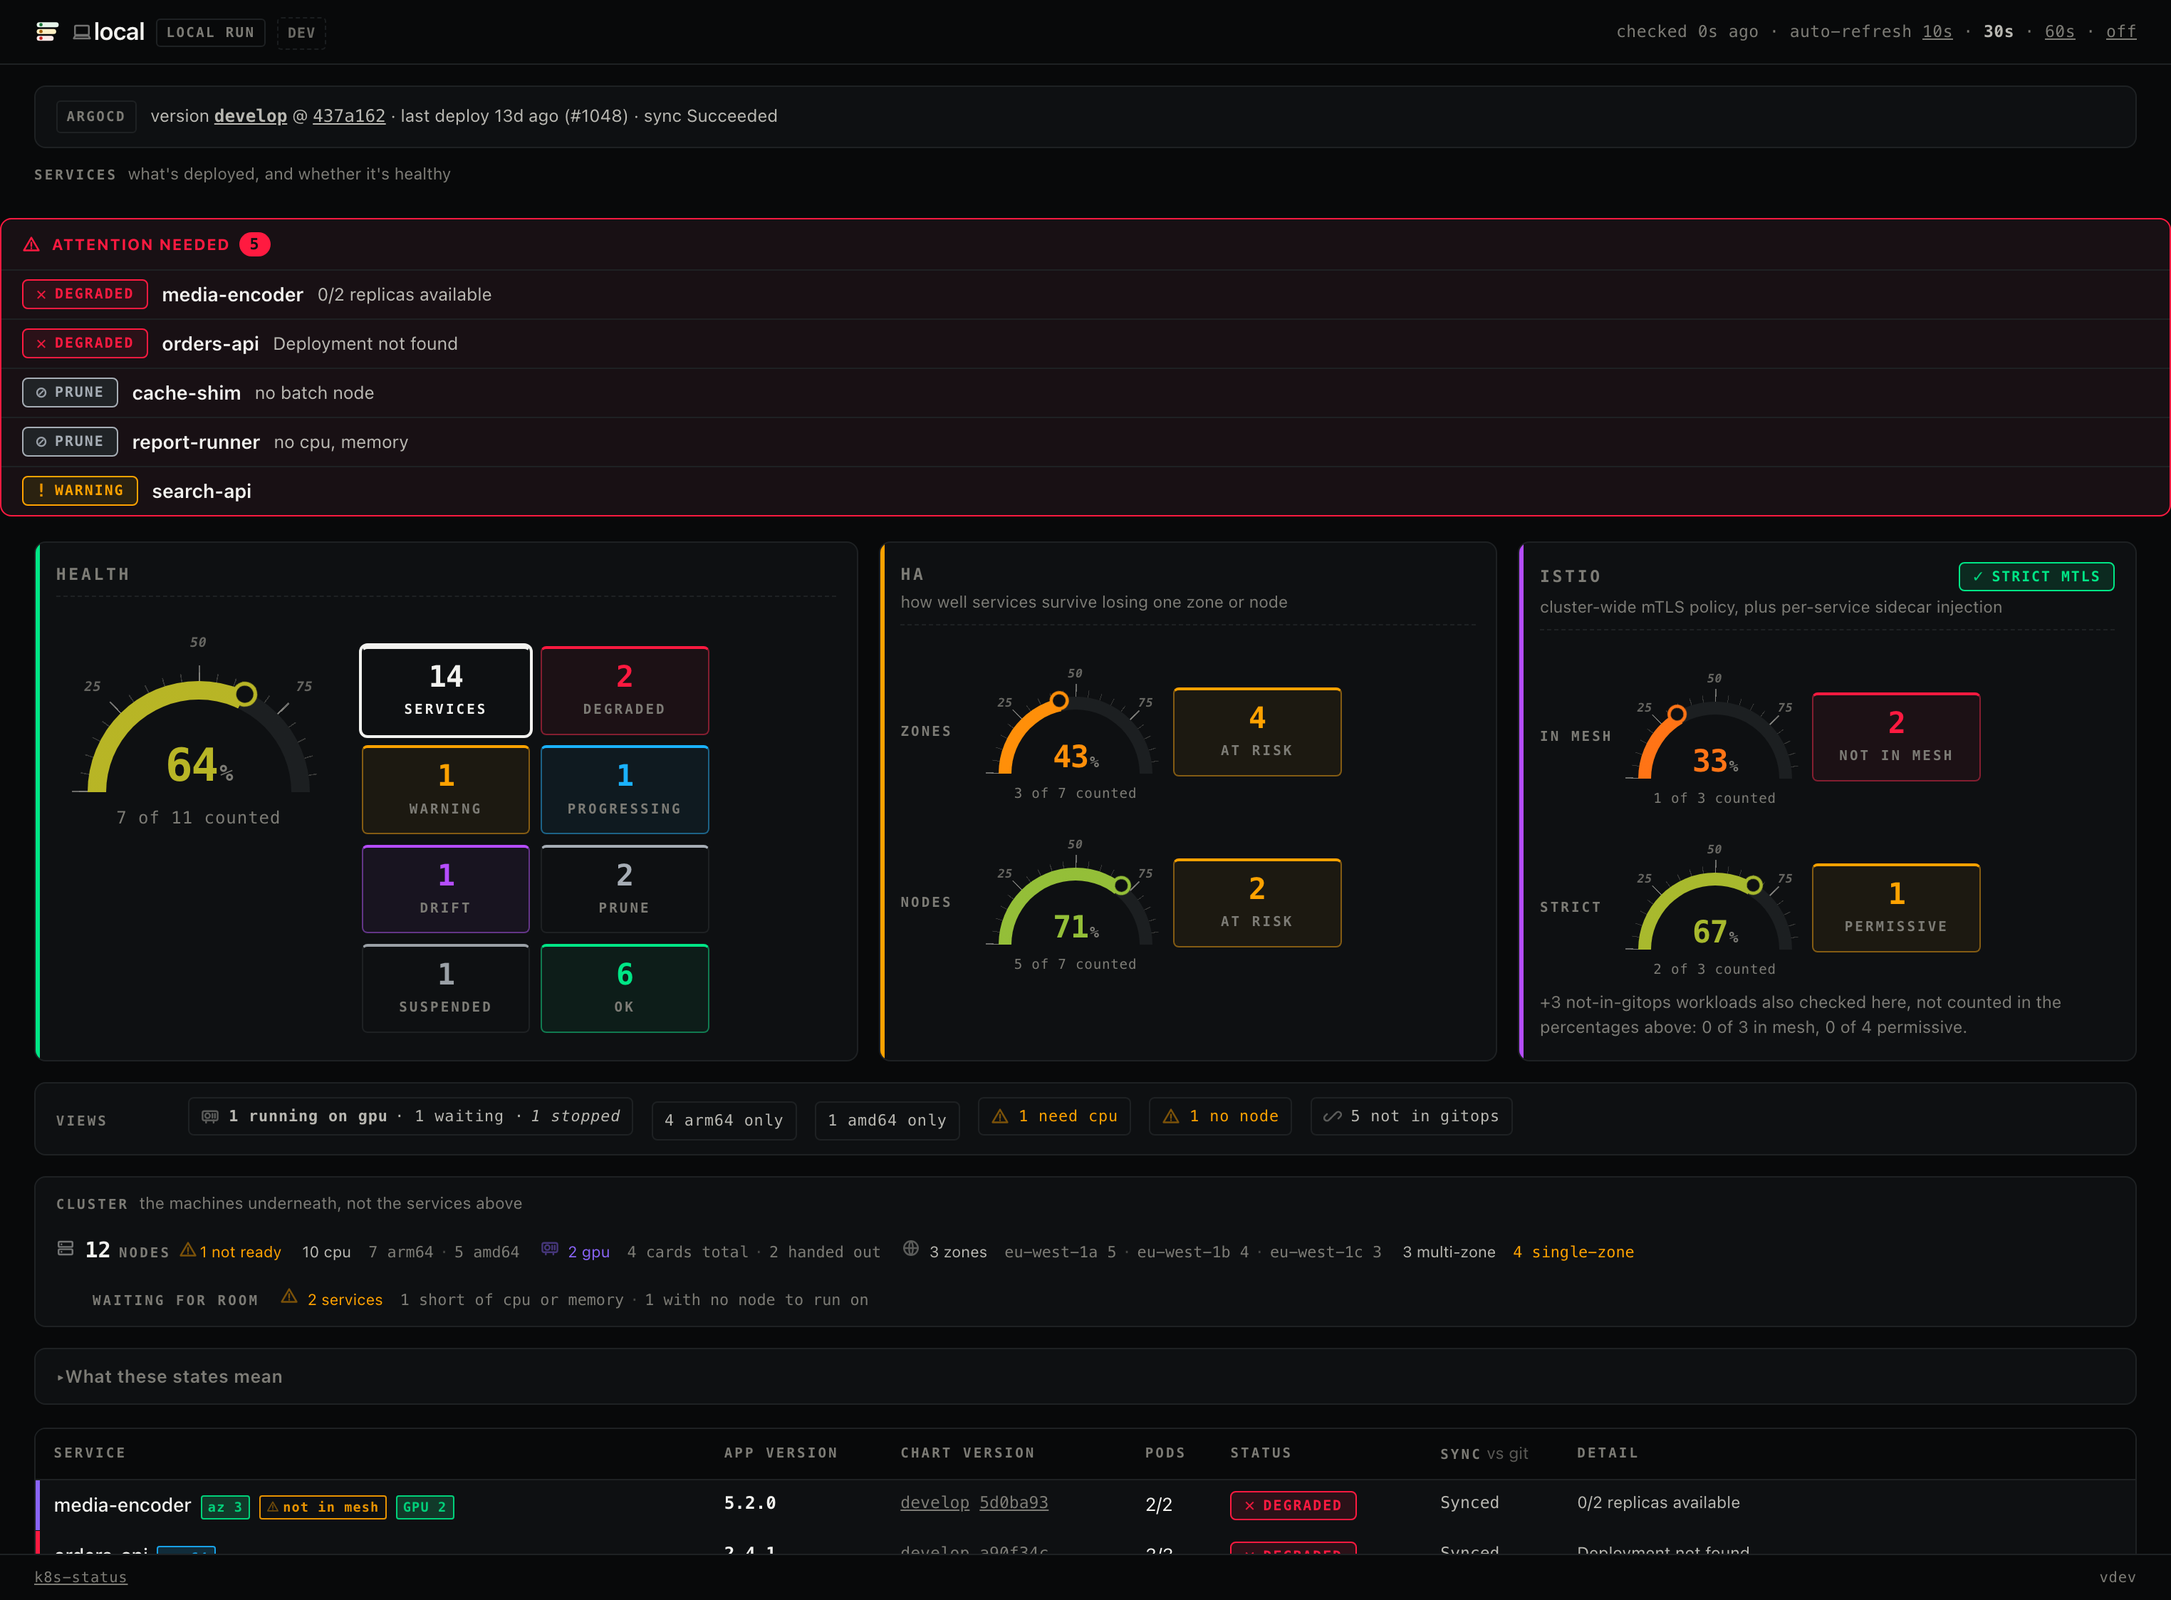
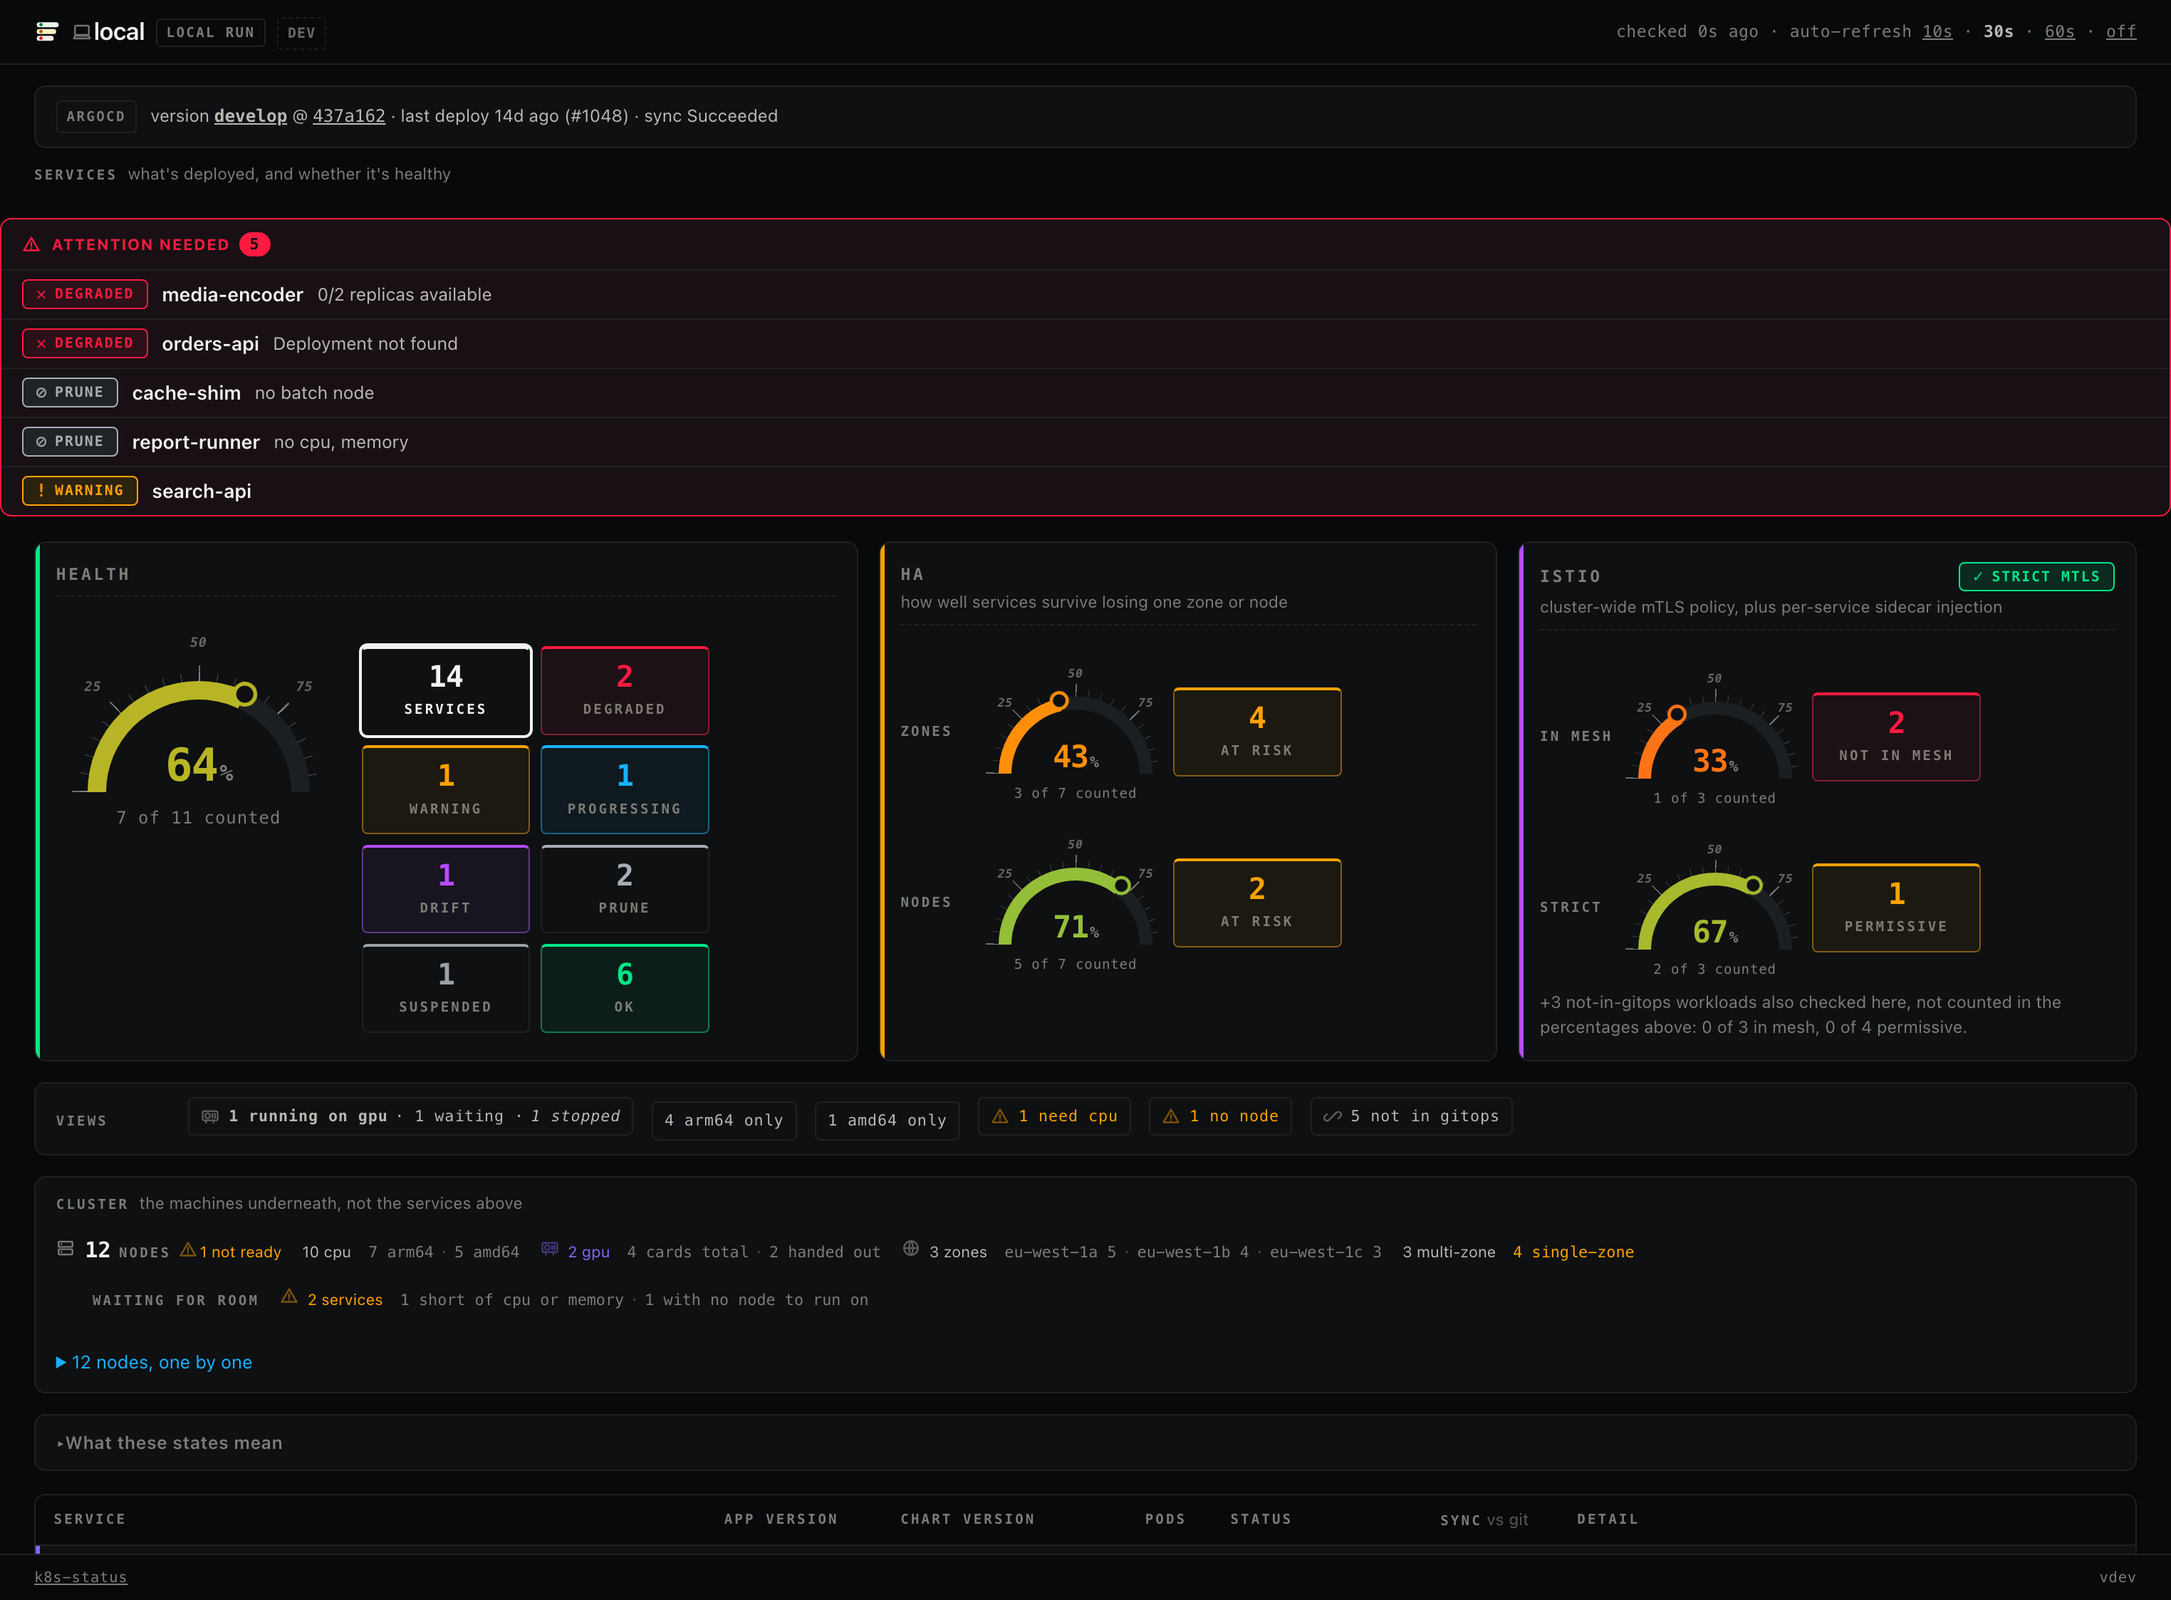
feat: per-node table under the Cluster panel
A 'N nodes, one by one' disclosure under the aggregate counts, listing name,
zone, arch, ready, allocatable CPU/memory, and GPU per node -- not-ready nodes
sort first. Built entirely from the node read the aggregate counts already
use: no new fetch, no new RBAC. Adds status.Allocatable decode (was capacity-
only) and a small Kubernetes-quantity parser (cpu m/u/n, memory Ki/Mi/Gi/Ti).

diff --git a/internal/web/templates/index.html b/internal/web/templates/index.html
@@ -506,6 +506,19 @@ table.components th { position: static; background: none; border: 0; padding: .1
 table.components td { border: 0; padding: .1rem 1.1rem .1rem 0; color: var(--ink-2); font-size: .78rem; }
 table.components td.k { color: var(--muted); }
 
+/* Node table: same disclosure pattern as the out-of-sync components list, one row
+   per machine so a problem node (not ready, short on room) is a name, not a guess
+   from the aggregate counts above. All from data already fetched for those counts:
+   no new read, no new RBAC. */
+.node-table { margin-top: .6rem; }
+.node-table summary { cursor: pointer; color: var(--prog-fg); font-size: .8rem; padding: .15rem 0; width: fit-content; }
+.node-table summary:hover { text-decoration: underline; }
+.node-table table { width: 100%; border-collapse: collapse; margin-top: .4rem; font-size: .78rem; }
+.node-table th { text-align: left; font-weight: 600; color: var(--muted); font-size: .62rem;
+                 text-transform: uppercase; letter-spacing: .05em; padding: .3rem .8rem .3rem 0; }
+.node-table td { padding: .3rem .8rem .3rem 0; border-top: 1px solid var(--hair); }
+.node-table tr.is-warn td:first-child { color: var(--warn-fg); font-weight: 600; }
+
 .sec-head { display: flex; flex-wrap: wrap; align-items: baseline; gap: .5rem;
             margin: 1.9rem 0 -.2rem; font-size: .8rem; font-weight: 600;
             letter-spacing: .02em; color: var(--ink-2); }
@@ -1227,6 +1240,25 @@ footer { font-family: var(--mono); font-size: .64rem; letter-spacing: .04em; }
       </div>
       {{- end}}
   </div>
+  {{- if .Rows}}
+  <details class="node-table">
+    <summary>{{len .Rows}} node{{if ne (len .Rows) 1}}s{{end}}, one by one</summary>
+    <table>
+      <tr><th>Name</th><th>Zone</th><th>Arch</th><th>Ready</th><th>CPU</th><th>Memory</th><th>{{$.Snapshot.AcceleratorLabel}}</th></tr>
+      {{- range .Rows}}
+      <tr class="{{if not .Ready}}is-warn{{end}}">
+        <td>{{.Name}}</td>
+        <td>{{if .Zone}}{{.Zone}}{{else}}&mdash;{{end}}</td>
+        <td>{{.Arch}}</td>
+        <td>{{if .Ready}}Ready{{else}}{{icon "warn"}}NotReady{{end}}</td>
+        <td>{{.CPU}}</td>
+        <td>{{.Memory}} Gi</td>
+        <td>{{if .GPU}}{{.GPU}}{{end}}</td>
+      </tr>
+      {{- end}}
+    </table>
+  </details>
+  {{- end}}
   {{- end}}{{end}}
   {{- with $.Snapshot.Nodes}}{{if .Error}}
   <div class="cap-note">

diff --git a/internal/status/nodes.go b/internal/status/nodes.go
@@ -53,8 +53,30 @@ type NodeStats struct {
 	// reliable signal, the managed offering on it (e.g. "AWS EKS"). Empty when
 	// neither gives one -- see detectProvider.
 	Provider string
-	Denied   bool
-	Error    string
+	// Rows is one entry per node, worst-first (not-ready nodes before ready ones,
+	// then by name), for the per-node table. Nil on the same Denied/Error/no-data
+	// paths as everything else here.
+	Rows   []NodeRow
+	Denied bool
+	Error  string
+}
+
+// NodeRow is one row of the per-node table: enough to spot a problem node without
+// needing kubectl, using only fields this project already reads for the aggregate
+// counts above.
+type NodeRow struct {
+	Name  string
+	Zone  string
+	Arch  string
+	Ready bool
+	// CPU and Memory are allocatable, not capacity: what a pod can actually request,
+	// which is what a reader comparing this to a workload's own requests wants.
+	CPU    string
+	Memory string
+	// GPUResource is empty for a node with no accelerator. GPU is that resource's
+	// allocatable count.
+	GPUResource string
+	GPU         int
 }
 
 // AcceleratorCount is one device type and how much of it the cluster has.
@@ -140,6 +162,22 @@ func BuildNodeStats(list *kube.NodeList, accel []string) NodeStats {
 			e[1]++
 		}
 		byZone[zone] = e
+
+		row := NodeRow{
+			Name:   n.Metadata.Name,
+			Zone:   n.Zone(),
+			Arch:   n.Status.NodeInfo.Architecture,
+			Ready:  ready,
+			CPU:    formatCPUCores(parseCPUCores(n.Status.Allocatable["cpu"])),
+			Memory: formatMemoryGiB(parseMemoryBytes(n.Status.Allocatable["memory"])),
+		}
+		for _, name := range accel {
+			if c := quantityInt(string(n.Status.Allocatable[name])); c > 0 {
+				row.GPUResource, row.GPU = name, c
+				break
+			}
+		}
+		stats.Rows = append(stats.Rows, row)
 	}
 
 	stats.Accelerators = make([]AcceleratorCount, 0, len(perRes))
@@ -165,6 +203,14 @@ func BuildNodeStats(list *kube.NodeList, accel []string) NodeStats {
 		stats.Zones = append(stats.Zones, ZoneCount{Zone: z, Nodes: e[0], Ready: e[1]})
 	}
 	sort.Slice(stats.Zones, func(i, j int) bool { return stats.Zones[i].Zone < stats.Zones[j].Zone })
+	// Not-ready nodes first -- the ones worth a look -- then alphabetically, same
+	// worst-first convention the services table sorts by.
+	sort.Slice(stats.Rows, func(i, j int) bool {
+		if stats.Rows[i].Ready != stats.Rows[j].Ready {
+			return !stats.Rows[i].Ready
+		}
+		return stats.Rows[i].Name < stats.Rows[j].Name
+	})
 	stats.KubernetesVersion = parseKubernetesVersion(versionSource)
 	stats.Provider = detectProvider(providerID, versionSource)
 	return stats

diff --git a/internal/status/quantity.go b/internal/status/quantity.go
@@ -1,0 +1,77 @@
+package status
+
+import (
+	"strconv"
+	"strings"
+
+	"github.com/ntmggr/k8s-status/internal/kube"
+)
+
+// parseCPUCores reads a Kubernetes CPU quantity ("2", "3800m", "500000n") as whole
+// cores. CPU quantities only ever use the decimal SI suffixes (n/u/m) or none at
+// all -- never the binary Ki/Mi/Gi memory uses -- so this only handles those.
+func parseCPUCores(q kube.Quantity) float64 {
+	s := strings.TrimSpace(string(q))
+	if s == "" {
+		return 0
+	}
+	div := 1.0
+	switch {
+	case strings.HasSuffix(s, "n"):
+		s, div = s[:len(s)-1], 1e9
+	case strings.HasSuffix(s, "u"):
+		s, div = s[:len(s)-1], 1e6
+	case strings.HasSuffix(s, "m"):
+		s, div = s[:len(s)-1], 1e3
+	}
+	v, err := strconv.ParseFloat(s, 64)
+	if err != nil || v < 0 {
+		return 0
+	}
+	return v / div
+}
+
+// memUnits maps every suffix a memory quantity can carry to its byte multiplier.
+// Longest suffixes first so "Ki" is not shadowed by a "K" that never appears in the
+// Kubernetes API but would otherwise wrongly match as a prefix of "Ki".
+var memUnits = []struct {
+	suffix string
+	mult   float64
+}{
+	{"Ei", 1 << 60}, {"Pi", 1 << 50}, {"Ti", 1 << 40}, {"Gi", 1 << 30}, {"Mi", 1 << 20}, {"Ki", 1 << 10},
+	{"E", 1e18}, {"P", 1e15}, {"T", 1e12}, {"G", 1e9}, {"M", 1e6}, {"k", 1e3},
+}
+
+// parseMemoryBytes reads a Kubernetes memory quantity ("16Gi", "16400716Ki",
+// "17179869184") as bytes.
+func parseMemoryBytes(q kube.Quantity) int64 {
+	s := strings.TrimSpace(string(q))
+	if s == "" {
+		return 0
+	}
+	mult := 1.0
+	for _, u := range memUnits {
+		if strings.HasSuffix(s, u.suffix) {
+			s, mult = s[:len(s)-len(u.suffix)], u.mult
+			break
+		}
+	}
+	v, err := strconv.ParseFloat(s, 64)
+	if err != nil || v < 0 {
+		return 0
+	}
+	return int64(v * mult)
+}
+
+// formatCPUCores renders cores the way the rest of the page renders numbers: no
+// trailing zeroes, at most one decimal place -- "4" and "3.5", never "3.50".
+func formatCPUCores(cores float64) string {
+	return strconv.FormatFloat(cores, 'f', -1, 64)
+}
+
+// formatMemoryGiB renders bytes as GiB, the unit every cloud provider quotes
+// instance memory in, so a node's row reads the same as its own spec sheet.
+func formatMemoryGiB(bytes int64) string {
+	gib := float64(bytes) / (1 << 30)
+	return strconv.FormatFloat(gib, 'f', 1, 64)
+}

diff --git a/internal/status/nodes_test.go b/internal/status/nodes_test.go
@@ -258,3 +258,38 @@ func TestBuildNodeStatsPrefersReadyNodeForVersion(t *testing.T) {
 		t.Errorf("Provider = %q, want AWS EKS", got.Provider)
 	}
 }
+
+const nodeRowFixture = `{"items":[
+ {"metadata":{"name":"node-b","labels":{"topology.kubernetes.io/zone":"eu-west-1b"}},
+  "status":{"capacity":{"cpu":"4","memory":"16Gi"},"allocatable":{"cpu":"3800m","memory":"15Gi"},
+  "nodeInfo":{"architecture":"arm64"},"conditions":[{"type":"Ready","status":"True"}]}},
+ {"metadata":{"name":"node-a","labels":{"topology.kubernetes.io/zone":"eu-west-1a"}},
+  "status":{"capacity":{"cpu":"8","memory":"32Gi","nvidia.com/gpu":"2"},"allocatable":{"cpu":"8","memory":"31Gi","nvidia.com/gpu":"2"},
+  "nodeInfo":{"architecture":"amd64"},"conditions":[{"type":"Ready","status":"False"}]}}
+]}`
+
+func TestBuildNodeStatsRows(t *testing.T) {
+	got := buildStats(decodeNodes(t, nodeRowFixture))
+	if len(got.Rows) != 2 {
+		t.Fatalf("len(Rows) = %d, want 2", len(got.Rows))
+	}
+	// NotReady first, regardless of name.
+	if got.Rows[0].Name != "node-a" || got.Rows[0].Ready {
+		t.Errorf("Rows[0] = %+v, want not-ready node-a first", got.Rows[0])
+	}
+	if got.Rows[0].GPU != 2 || got.Rows[0].GPUResource != "nvidia.com/gpu" {
+		t.Errorf("Rows[0] GPU = %d/%q, want 2/nvidia.com/gpu", got.Rows[0].GPU, got.Rows[0].GPUResource)
+	}
+	if got.Rows[0].CPU != "8" || got.Rows[0].Memory != "31.0" {
+		t.Errorf("Rows[0] CPU/Memory = %s/%s, want 8/31.0", got.Rows[0].CPU, got.Rows[0].Memory)
+	}
+	if got.Rows[1].Name != "node-b" || !got.Rows[1].Ready {
+		t.Errorf("Rows[1] = %+v, want ready node-b second", got.Rows[1])
+	}
+	if got.Rows[1].CPU != "3.8" || got.Rows[1].Zone != "eu-west-1b" {
+		t.Errorf("Rows[1] CPU/Zone = %s/%s, want 3.8/eu-west-1b", got.Rows[1].CPU, got.Rows[1].Zone)
+	}
+	if got.Rows[1].GPUResource != "" || got.Rows[1].GPU != 0 {
+		t.Errorf("Rows[1] should have no GPU, got %+v", got.Rows[1])
+	}
+}

diff --git a/internal/status/quantity_test.go b/internal/status/quantity_test.go
@@ -1,0 +1,50 @@
+package status
+
+import (
+	"testing"
+
+	"github.com/ntmggr/k8s-status/internal/kube"
+)
+
+func TestParseCPUCores(t *testing.T) {
+	cases := []struct {
+		in   string
+		want float64
+	}{
+		{"", 0}, {"4", 4}, {"3800m", 3.8}, {"500000n", 0.0005}, {"2500000u", 2.5}, {"not-a-number", 0}, {"-1", 0},
+	}
+	for _, tc := range cases {
+		if got := parseCPUCores(kube.Quantity(tc.in)); got != tc.want {
+			t.Errorf("parseCPUCores(%q) = %v, want %v", tc.in, got, tc.want)
+		}
+	}
+}
+
+func TestParseMemoryBytes(t *testing.T) {
+	cases := []struct {
+		in   string
+		want int64
+	}{
+		{"", 0}, {"1024", 1024}, {"1Ki", 1024}, {"16Gi", 16 * (1 << 30)}, {"1M", 1e6}, {"garbage", 0}, {"-5Gi", 0},
+	}
+	for _, tc := range cases {
+		if got := parseMemoryBytes(kube.Quantity(tc.in)); got != tc.want {
+			t.Errorf("parseMemoryBytes(%q) = %v, want %v", tc.in, got, tc.want)
+		}
+	}
+}
+
+func TestFormatCPUCoresNoTrailingZeroes(t *testing.T) {
+	if got := formatCPUCores(4); got != "4" {
+		t.Errorf("formatCPUCores(4) = %q, want %q", got, "4")
+	}
+	if got := formatCPUCores(3.8); got != "3.8" {
+		t.Errorf("formatCPUCores(3.8) = %q, want %q", got, "3.8")
+	}
+}
+
+func TestFormatMemoryGiBOneDecimal(t *testing.T) {
+	if got := formatMemoryGiB(16 * (1 << 30)); got != "16.0" {
+		t.Errorf("formatMemoryGiB(16Gi) = %q, want %q", got, "16.0")
+	}
+}

diff --git a/internal/kube/nodes.go b/internal/kube/nodes.go
@@ -60,7 +60,12 @@ type NodeStatus struct {
 	// cluster advertises is not knowable in advance: NVIDIA full cards, NVIDIA MIG
 	// slices, AMD, Intel, AWS Neuron and TPUs all use different resource names.
 	Capacity map[string]Quantity `json:"capacity"`
-	NodeInfo NodeInfo            `json:"nodeInfo"`
+	// Allocatable is Capacity minus what the kubelet/OS reserve for itself, i.e. what
+	// a pod can actually request. Decoded the same whole-map way as Capacity, for the
+	// same reason: cpu/memory are the only keys this project reads from it, but which
+	// other keys exist is not knowable in advance.
+	Allocatable map[string]Quantity `json:"allocatable"`
+	NodeInfo    NodeInfo            `json:"nodeInfo"`
 	// Addresses carries the node's InternalIP, used elsewhere to join running pods
 	// to the node they landed on via status.hostIP.
 	Addresses []NodeAddress `json:"addresses"`

diff --git a/README.md b/README.md
@@ -828,14 +828,17 @@ helm template k8s-status charts/k8s-status --set config.meshMTLS=true | grep -c 
 ### Cluster capacity
 
 Shows total nodes, CPU nodes, GPU nodes, total GPUs, GPU services and the CPU architecture
-split.
+split. A "N nodes, one by one" disclosure underneath expands into a per-node table (zone,
+architecture, ready, allocatable CPU/memory, GPU) -- not-ready nodes sort first, so a
+problem node is a name, not a guess worked back from the aggregate counts above. Built
+from the same node read as the counts above it: no extra request, no extra RBAC.
 
 - A node counts as a GPU node when `.status.capacity["nvidia.com/gpu"]` is above zero.
   That key comes from the standard NVIDIA device plugin, so it works on any cluster; a
   node-group label would not.
 - A missing or unreadable value counts as zero rather than failing the read.
-- Only three fields are decoded: `metadata.name`,
-  `status.capacity["nvidia.com/gpu"]` and `status.nodeInfo.architecture`.
+- CPU and memory in the per-node table are `status.allocatable`, not `status.capacity`:
+  what a pod can actually request, after the kubelet/OS's own reserved share.
 
 GPU is reported here rather than as a status tile. The status tiles are mutually exclusive
 and add up to the service total, and a GPU service is already counted in `OK` or
